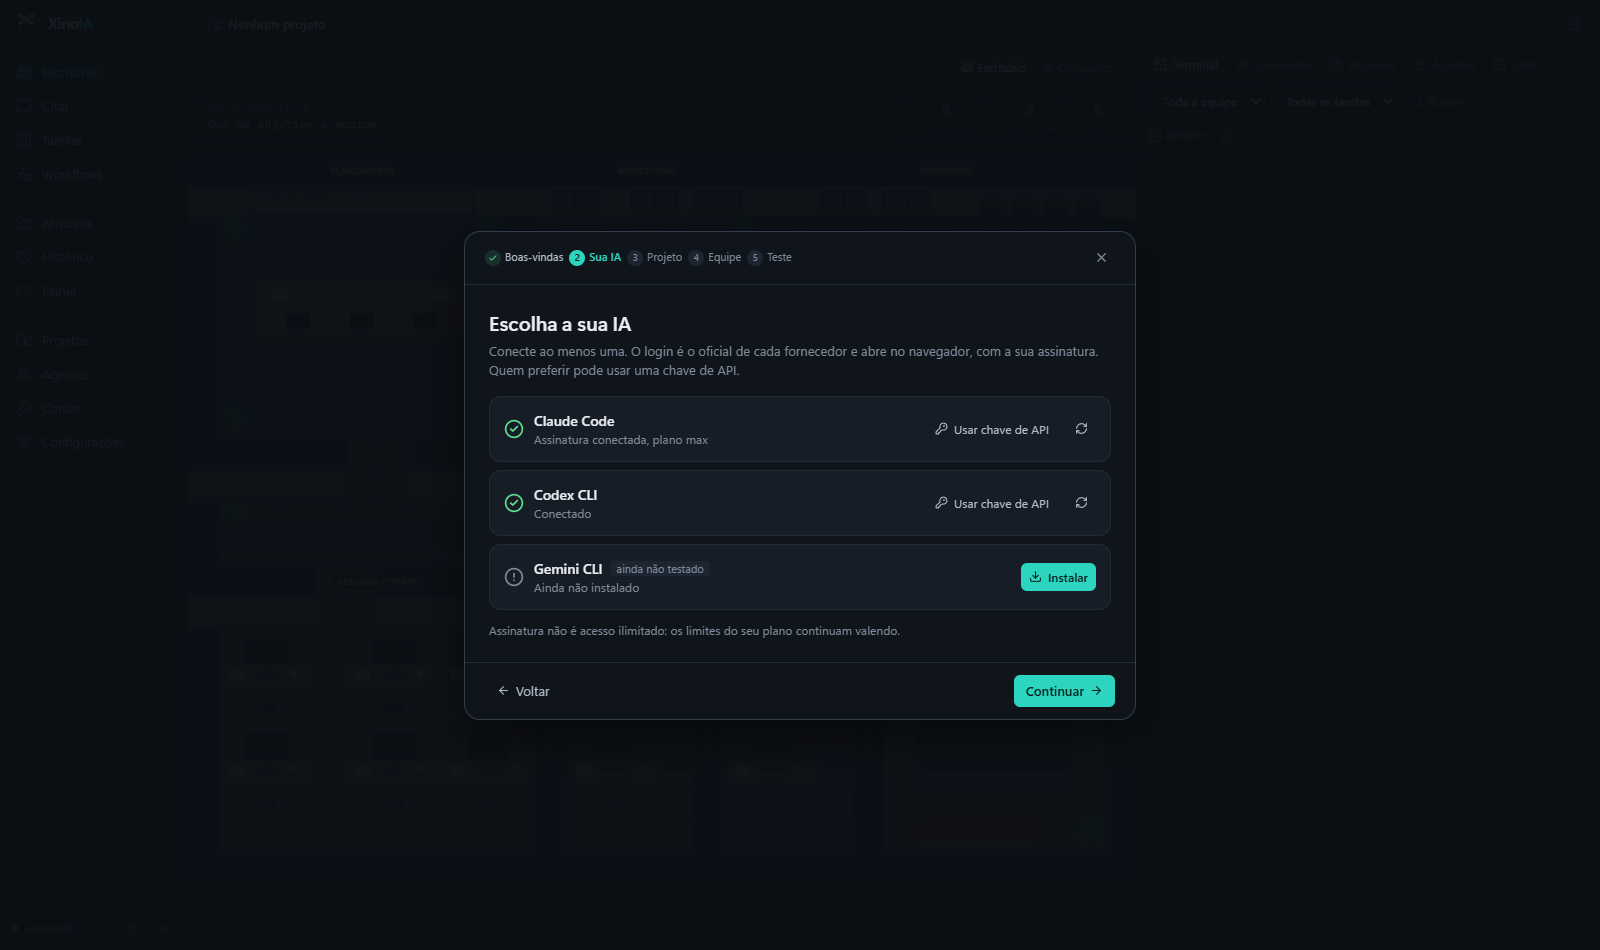
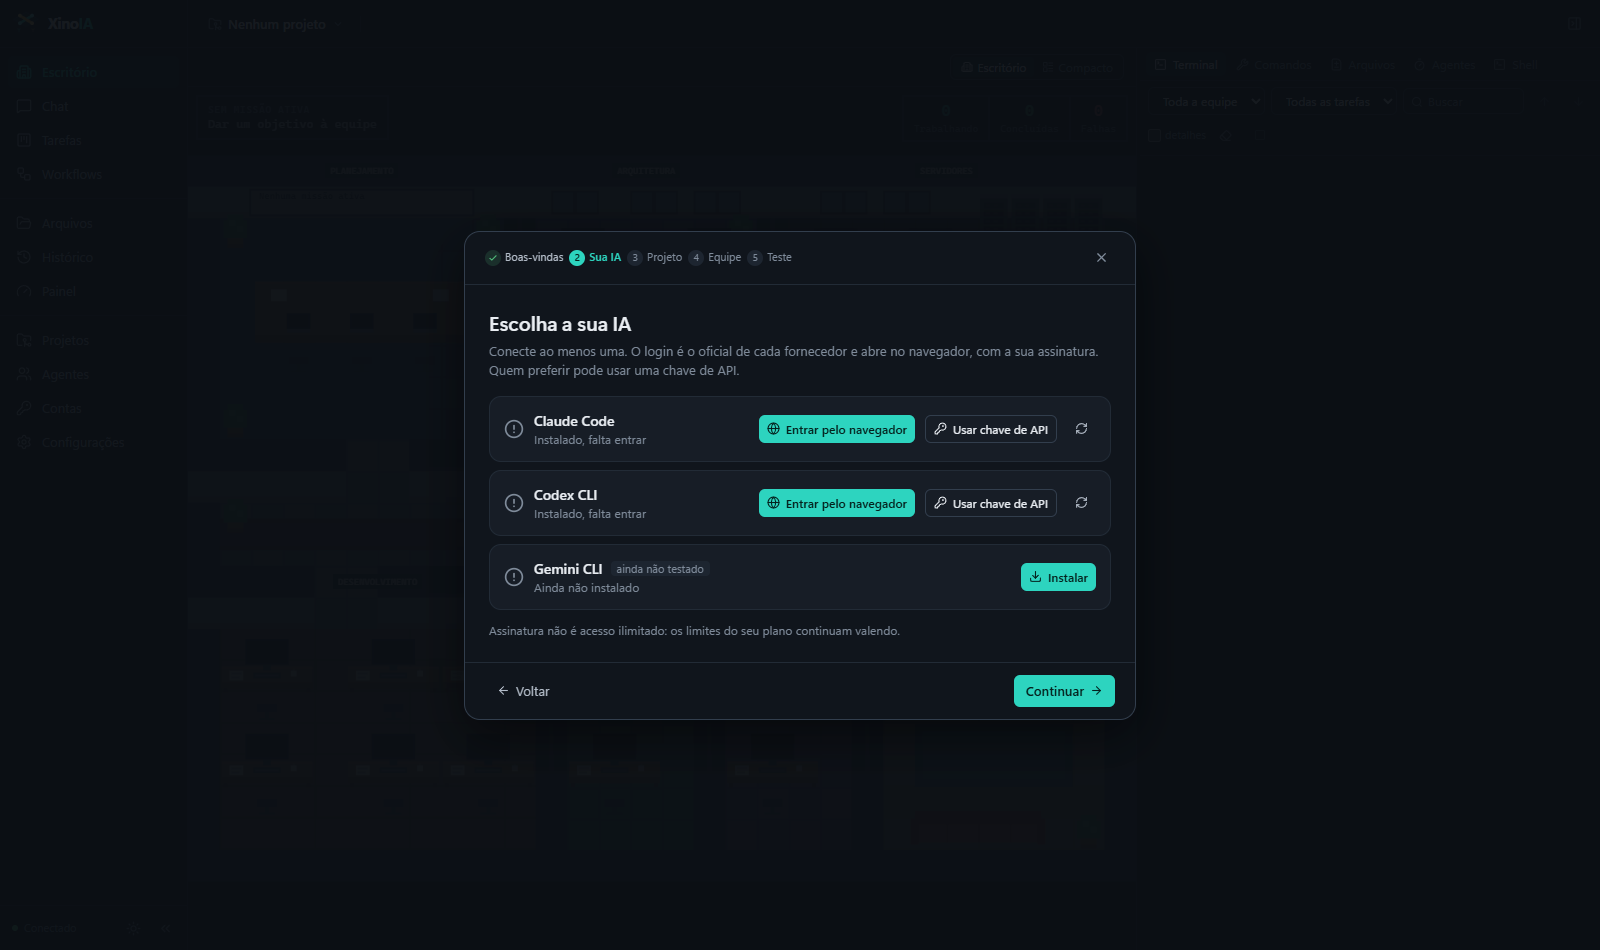
Garante que o repositório não leva conta de ninguém e prepara a versão 0.1.0
A captura da escolha da IA agora sai sem nenhuma conta conectada. Testes exigem que uma
instalação nova comece vazia e que o repositório não tenha login nem dados locais, e o
.gitignore cobre as pastas dos CLIs. Changelog com a seção da versão 0.1.0.

Changed region(s): [[0.4688, 0.4274, 0.6562, 0.5495], [0.3438, 0.4579, 0.4375, 0.4884], [0.3125, 0.5189, 0.4062, 0.5495]]

diff --git a/CLAUDE.md b/CLAUDE.md
@@ -5,7 +5,7 @@ Valem para qualquer pessoa ou agente que trabalhe aqui.
 ## Commits e pull requests
 
 - **Nunca** coloque Claude ou outra IA como colaborador. Sem `Co-Authored-By`, sem "Generated with" em commits, PRs ou releases.
-- Nunca faça commit de credenciais, dados pessoais ou da pasta de dados do app.
+- Nunca faça commit de credenciais, dados pessoais ou da pasta de dados do app. Nada de contas de quem desenvolve: cada pessoa conecta as próprias contas, na própria máquina. Capturas de tela não podem mostrar e-mail nem plano.
 
 ## README
 

diff --git a/docs/reports/phase-6.md b/docs/reports/phase-6.md
@@ -13,7 +13,7 @@
 
 | Teste | Onde | Resultado |
 | --- | --- | --- |
-| `npm run typecheck` e `npm test` (136 testes) | Local e CI | Passaram |
+| `npm run typecheck` e `npm test` (138 testes) | Local e CI | Passaram |
 | `npm run test:dist` | Local e **Windows limpo do GitHub** | Passou |
 | Atualização real com servidor local (`scripts/test-update-local.mjs`) | Local | Passou |
 | `npm run test:real` (15 testes) | Local, com contas reais | Passou |

diff --git a/CHANGELOG.md b/CHANGELOG.md
@@ -4,6 +4,8 @@ Formato baseado em [Keep a Changelog](https://keepachangelog.com/pt-BR/1.1.0/). 
 
 ## [Não lançado]
 
+## [0.1.0] - 2026-11-04
+
 Primeira versão de testes do XinoIA.
 
 ### Adicionado
